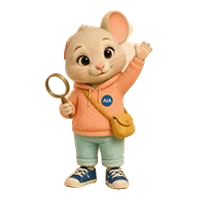
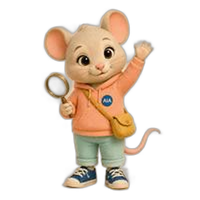
Sandy: recorte sin fondo corregido (conserva cola y orejas)
Claude-Session: https://claude.ai/code/session_016s1z4y5AhGNWbQsTJWxGy2

diff --git a/app.js b/app.js
@@ -662,7 +662,7 @@ const AGENTS = [
   { key: 'profesional', name: 'Hachi', animal: 'el perrito', label: 'Profesionales', vibe: 'Amable y organizado', help: 'Para médicos, abogados, psicólogos, secretarios y administrativos: citas, consultas, casos y documentos en orden.', ex: ['Te recuerda citas, consultas y trámites', 'Ordena el seguimiento de cada caso'] },
   { key: 'descubridor', name: 'Sandy', animal: 'la ratita', label: 'Descubridor/a', vibe: 'Tierna y curiosa', help: 'Para quien busca de todo un poco: guarda lo que te interesa, lo que quieres aprender, comprar o visitar.', ex: ['Lista de cosas que quieres aprender', 'Guarda ideas, viajes y compras pensadas'] }
 ];
-const agentImg = k => `img/agentes/${k}.png?v=3`;
+const agentImg = k => `img/agentes/${k}.png?v=4`;
 const agentByKey = k => AGENTS.find(a => a.key === k) || AGENTS[AGENTS.length - 1];
 // Frases para empezar a hablar con el agente (chat vacío), según el perfil.
 const AGENT_STARTERS = {
@@ -749,7 +749,7 @@ function openAgent() {
 // ---------- Bienvenida del agente (primera vez): en el centro, con las preguntas de a una ----------
 // Poses disponibles por agente; si falta alguna se usa la imagen fija.
 const AGENT_POSES = { profesional: ['saluda', 'celebra', 'ups', 'duerme'], descubridor: ['saluda', 'celebra'] };
-const agentPose = (k, pose) => (AGENT_POSES[k] || []).includes(pose) ? `img/agentes/${k}-${pose}.png?v=3` : agentImg(k);
+const agentPose = (k, pose) => (AGENT_POSES[k] || []).includes(pose) ? `img/agentes/${k}-${pose}.png?v=4` : agentImg(k);
 let welcome = null;
 function agentWelcome(pickKey) {
   if (pickKey && lrecall('curo_pick_login')) { lstore('curo_pick_login', null); setTimeout(() => toast('Ya tenías tu sesión de CURO abierta, así que entraste directo.'), 400); }

diff --git a/index.html b/index.html
@@ -12,6 +12,6 @@
 <body>
 <div id="app"></div>
 <script src="https://cdn.jsdelivr.net/npm/@supabase/supabase-js@2.45.4/dist/umd/supabase.min.js"></script>
-<script src="app.js?v=67"></script>
+<script src="app.js?v=68"></script>
 </body>
 </html>
